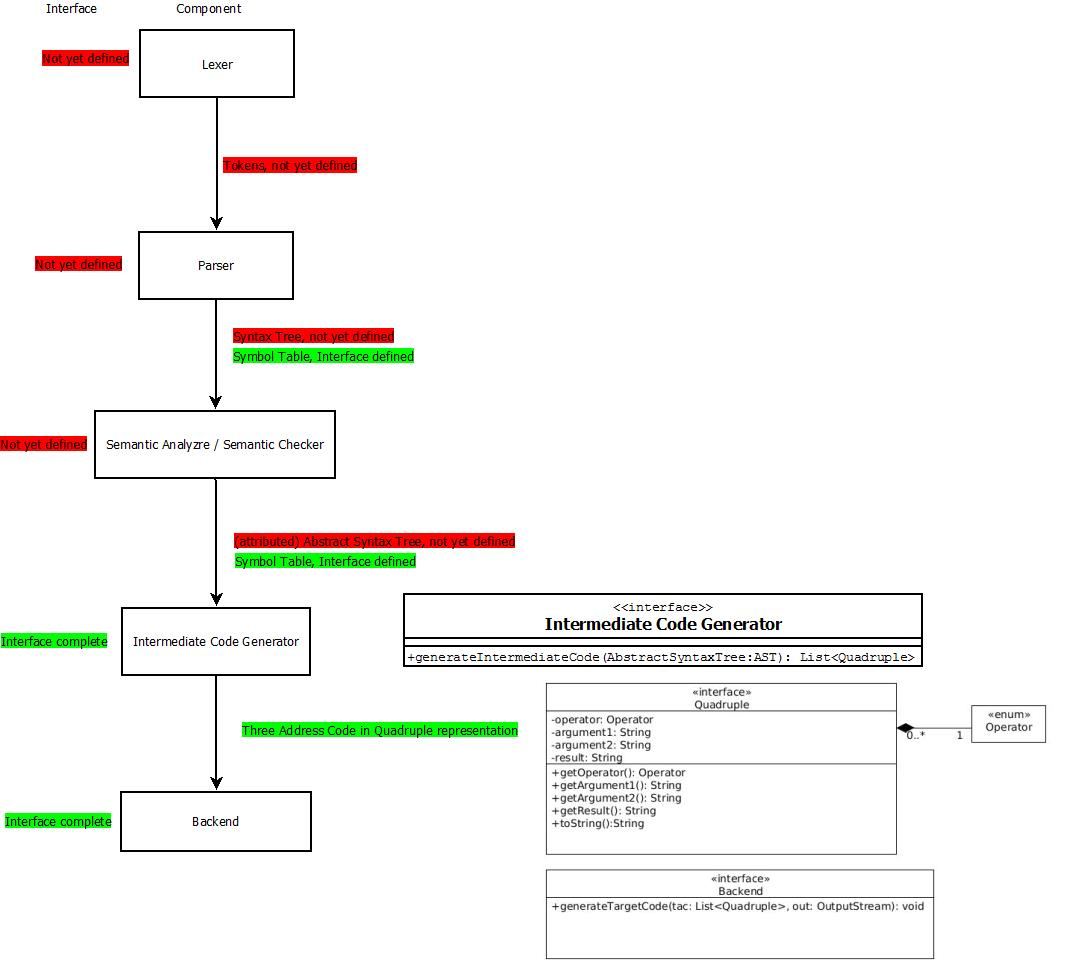
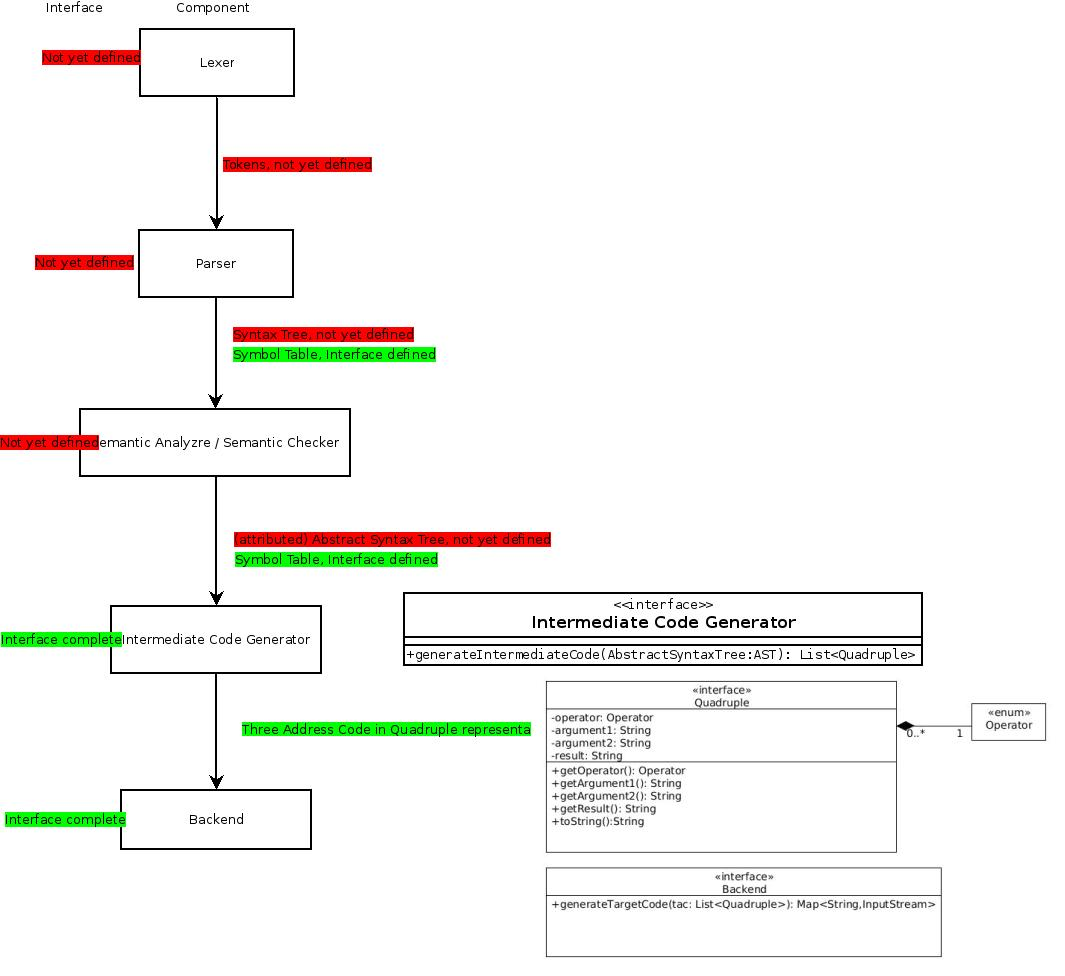
Change backend interface to not get an OutputStream to write to, but to return a list of InputStreams mapped with names, that contain the target code; these can then be read from to get the target code, e.g. so the controller can write it to a file..

diff --git a/interfaces/src/swp_compiler_ss13/common/backend/Backend.java b/interfaces/src/swp_compiler_ss13/common/backend/Backend.java
@@ -1,9 +1,10 @@
 package swp_compiler_ss13.common.backend;
 
-import java.io.OutputStream;
+import java.io.InputStream;
 import java.util.List;
+import java.util.Map;
 
 public interface Backend
 {
-	void generateTargetCode(List<Quadruple> tac, OutputStream output);
+	Map<String,InputStream> generateTargetCode(List<Quadruple> tac);
 }
